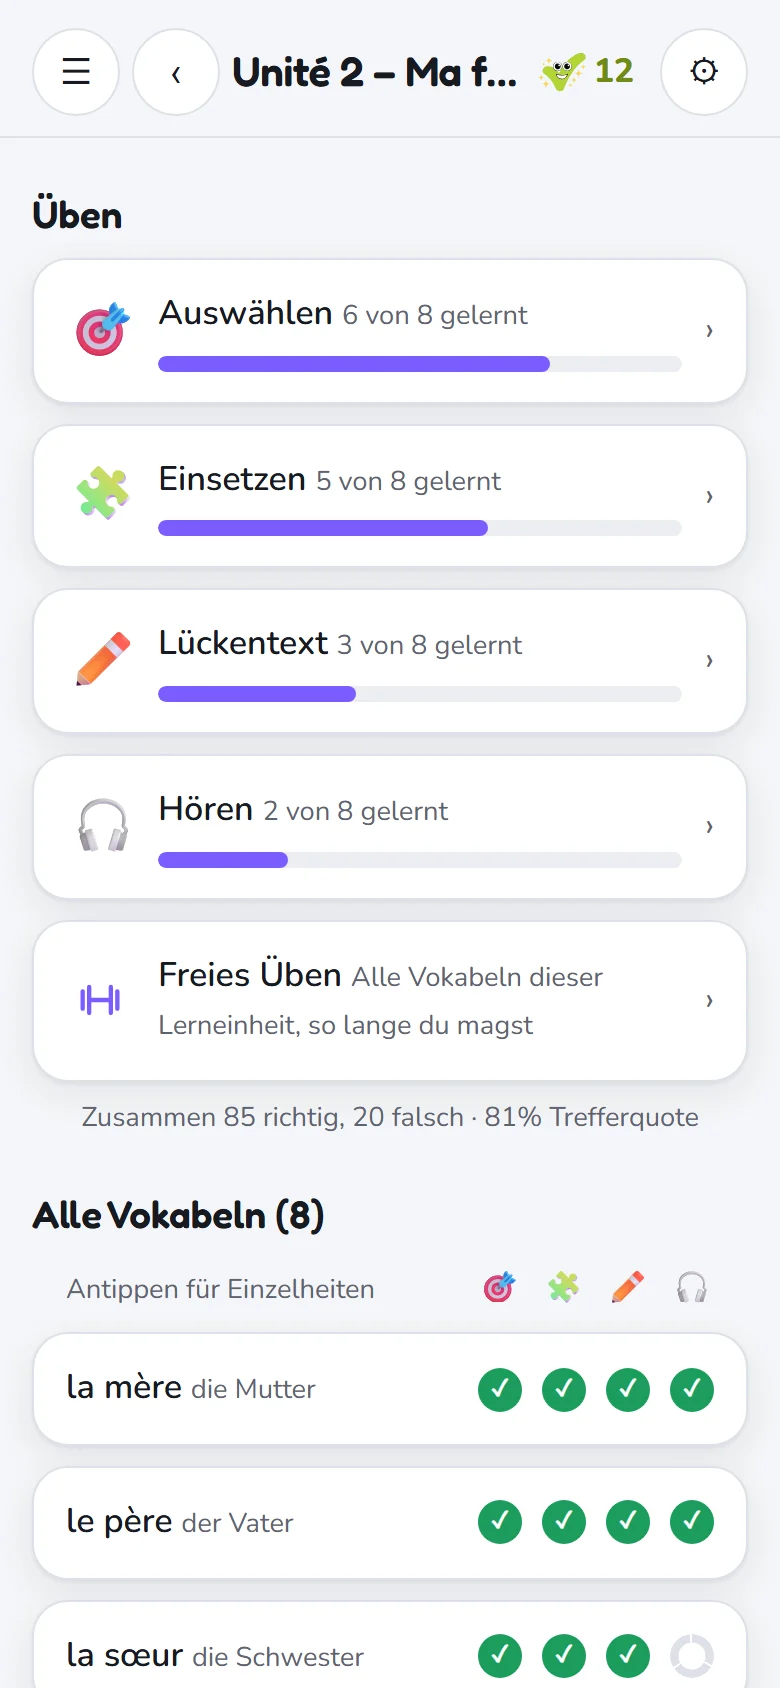
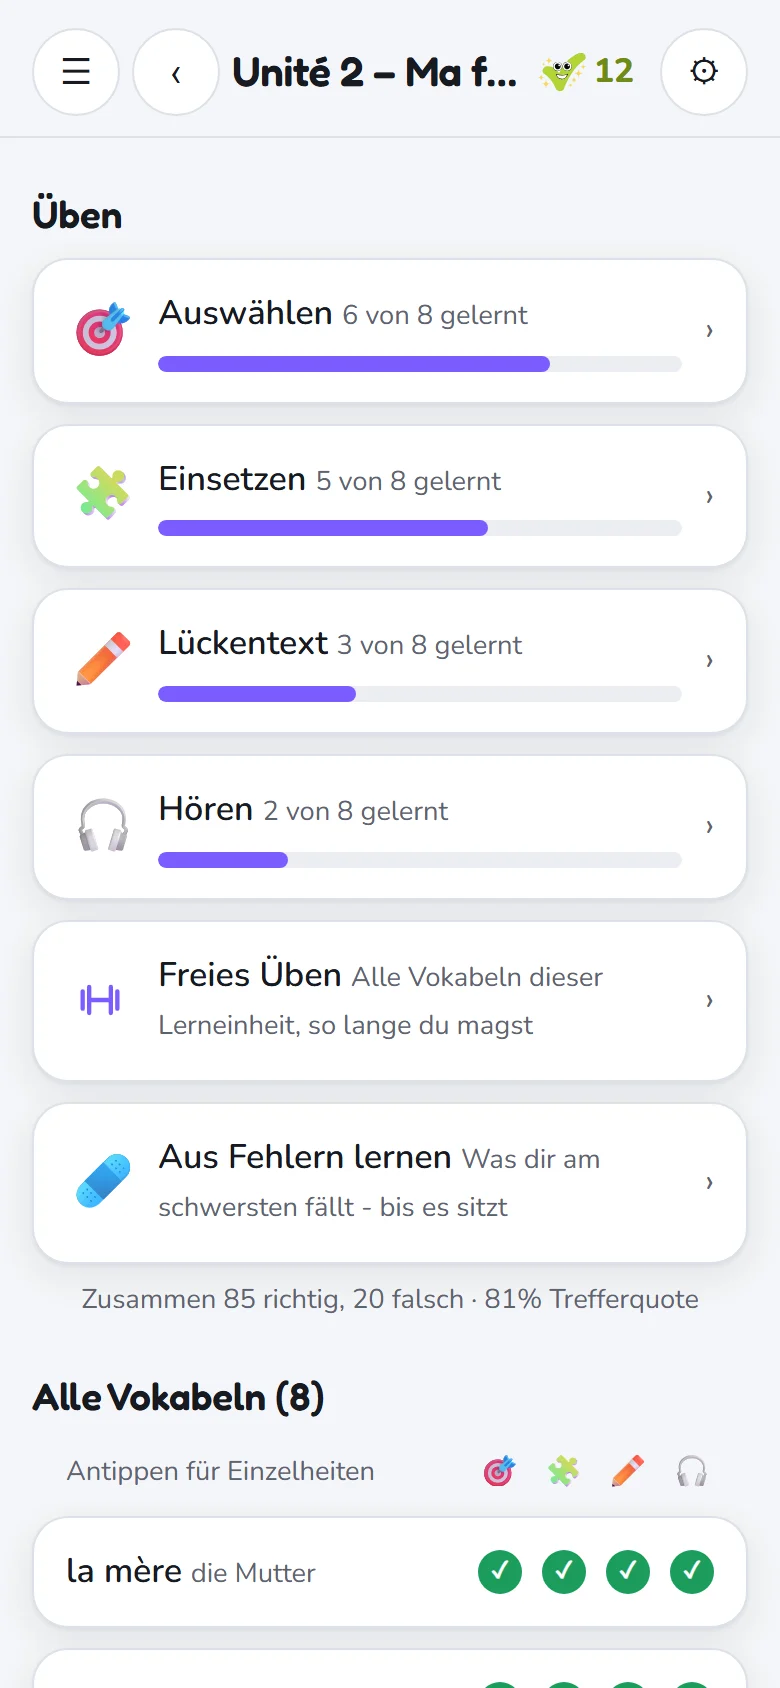
Startseite: neue Bildschirmfotos
Mit "Aus Fehlern lernen" in Kurs und Lerneinheit und dem Gesamtfortschritt
ueber alle vier Uebungen (78 % statt 81 % - die neue Regel zaehlt Punkte).

Claude-Session: https://claude.ai/code/session_015eqrhjzHJfnhtZvJk2Fhpk

diff --git a/website/index.html b/website/index.html
@@ -498,7 +498,7 @@ dialog.ablauf::backdrop { background: rgba(10, 14, 22, .5); }
         <article class="merkmal">
             <div class="bild">
                 <div class="telefon"><img src="bilder/kind-kurs.webp" loading="lazy"
-                     alt="Die Kursseite Französisch: 81 Prozent gelernt, darunter die Lerneinheiten mit Fortschrittsbalken"
+                     alt="Die Kursseite Französisch: 78 Prozent gelernt über alle vier Übungen, darunter Freies Üben, Aus Fehlern lernen und die Lerneinheiten mit Fortschrittsbalken"
                      width="780" height="1688"></div>
             </div>
             <div class="text">
